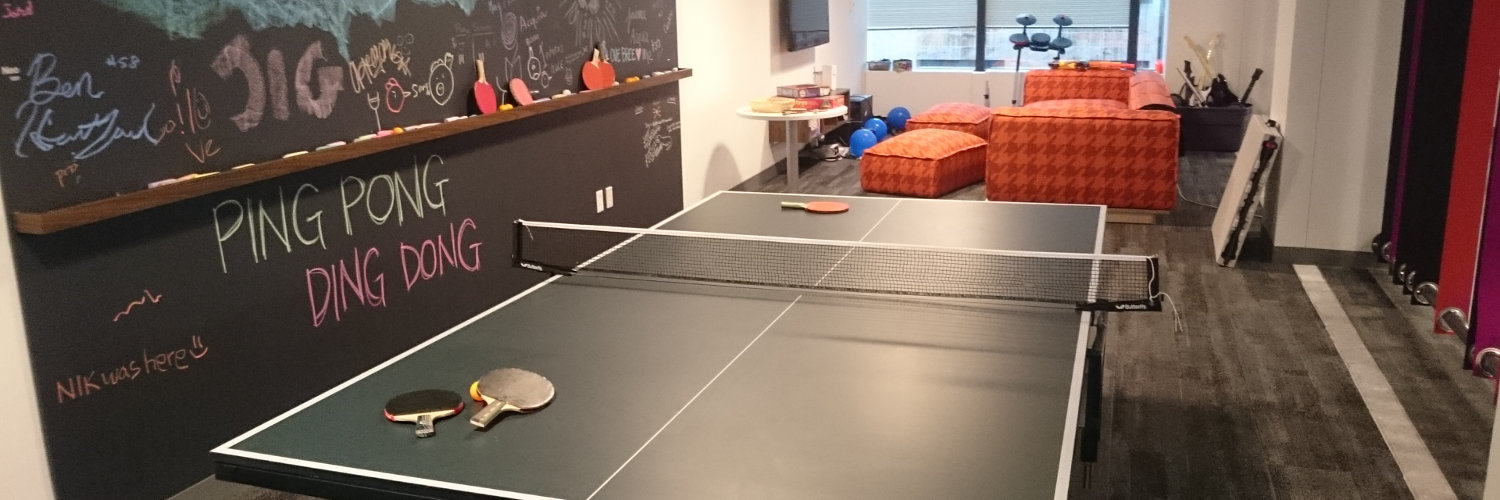
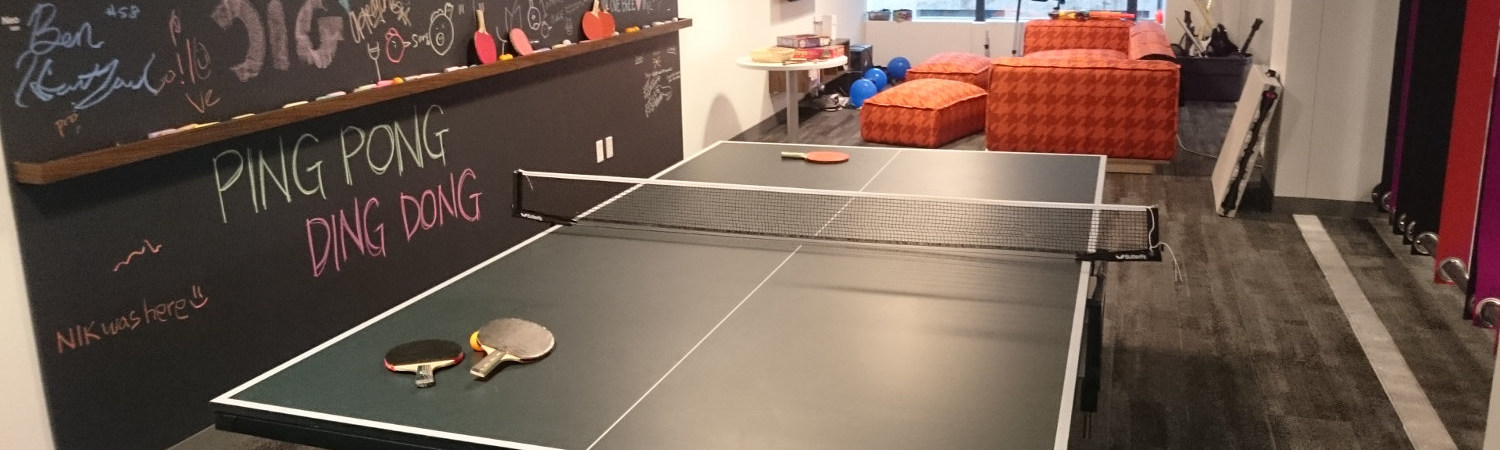
Update welcome node on front page. Reduce cover image height.

diff --git a/docroot/sites/all/themes/custom/bootstrap_sportsratingsacquia/css/style.css b/docroot/sites/all/themes/custom/bootstrap_sportsratingsacquia/css/style.css
@@ -1,3 +1,8 @@
+
+/*
+ * GLOBAL
+ */
+
 .main-container {
   margin-top: 35px;
 }
@@ -9,7 +14,7 @@
 #cover-image {
   margin-top: -20px;
   margin-bottom: 20px;
-  height: 350px;
+  height: 300px;
   background: url(../images/cover.jpg) no-repeat scroll 50% 0 / cover transparent;
 }
 
@@ -18,49 +23,11 @@
  */
 
 .welcome {
-  margin-top: -15px;
-  margin-right: 0px;
-  margin-left: -15px;
-  text-align: center;
-}
-
-.welcome-message {
   margin-top: -10px;
-  margin-bottom: 20px;
 }
 
-.box {
-  border-radius: 3px;
-  padding: 10px 20px;
-  display: block;
-}
-
-.info h4 {
-  font-size: 26px;
-  letter-spacing: 2px;
-  text-transform: uppercase;
-}
-
-.info > p {
-  color: #717171;
-  font-size: 16px;
-  text-align: justify;
-}
-
-.info > a {
-  margin-top: 5px;
-  background-color: #03a9f4;
-  border-radius: 2px;
-  box-shadow: 0 2px 5px 0 rgba(0, 0, 0, 0.16), 0 2px 10px 0 rgba(0, 0, 0, 0.12);
-  color: #fff;
-  transition: all 0.5s ease 0s;
-}
-
-.info > a:hover {
-  background-color: #0288d1;
-  box-shadow: 0 2px 3px 0 rgba(0, 0, 0, 0.16), 0 2px 5px 0 rgba(0, 0, 0, 0.12);
-  color: #fff;
-  transition: all 0.5s ease 0s;
+.welcome .well {
+  margin-bottom: 5px;
 }
 
 /*

diff --git a/docroot/sites/all/themes/custom/bootstrap_sportsratingsacquia/templates/block--block--1.tpl.php b/docroot/sites/all/themes/custom/bootstrap_sportsratingsacquia/templates/block--block--1.tpl.php
@@ -2,35 +2,29 @@
 // @TODO Need to move data into variables
 ?>
 
-<h2 class="text-center welcome-message">Welcome to Acquia Play</h2>
+<div class="welcome">
+  <div class="row">
+    <div class="col-lg-12">
+      <div class="well text-center">
+        <strong><?php print variable_get('site_slogan', 'Welcome to Acquia Play - Leaderboards for ping pong and foosball'); ?></strong>
+      </div>
+    </div>
+  </div>
 
-<div class="container welcome">
-    <div class="row col-lg-10 col-lg-offset-1">
-        <div class="col-xs-12 col-sm-12 col-md-4 col-lg-4">
-            <div class="box">
-                <div class="info">
-                    <h4 class="text-center">Sign In</h4>
-                    <p>Sign in with your Acquia Google account. You will need an acquia.com email address to use this site.</p>
-                </div>
-            </div>
-        </div>
+  <div class="row col-md-10 col-md-offset-1">
+    <div class="col-md-4">
+      <h2>Sign In</h2>
+      <p>Sign in with your Acquia Google account. You will need an acquia.com email address to use this site.</p>
+    </div>
 
-        <div class="col-xs-12 col-sm-12 col-md-4 col-lg-4">
-            <div class="box">
-                <div class="info">
-                    <h4 class="text-center">Play</h4>
-                    <p>Find someone on the leaderboards and challenge them to a ping pong or foosball game.</p>
-                </div>
-            </div>
-        </div>
+    <div class="col-md-4">
+      <h2>Play</h2>
+      <p>Find someone on the ping pong or foosball leaderboards and challenge them to a game.</p>
+    </div>
 
-        <div class="col-xs-12 col-sm-12 col-md-4 col-lg-4">
-            <div class="box">
-                <div class="info">
-                    <h4 class="text-center">Post</h4>
-                    <p>When your game is complete the winner should click the "Post match results" button on the leaderboard pages.</p>
-                </div>
-            </div>
-        </div>
+    <div class="col-md-4">
+      <h2>Post</h2>
+      <p>When your game is complete the winner should click the "Post match results" button on the leaderboard pages.</p>
+    </div>
   </div>
 </div>

diff --git a/docroot/sites/all/themes/custom/bootstrap_sportsratingsacquia/templates/page.tpl.php b/docroot/sites/all/themes/custom/bootstrap_sportsratingsacquia/templates/page.tpl.php
@@ -120,9 +120,6 @@
 <div class="main-container container">
 
   <header role="banner" id="page-header">
-    <?php if (!empty($site_slogan)): ?>
-      <p class="lead"><?php print $site_slogan; ?></p>
-    <?php endif; ?>
 
     <?php print render($page['header']); ?>
   </header> <!-- /#page-header -->
